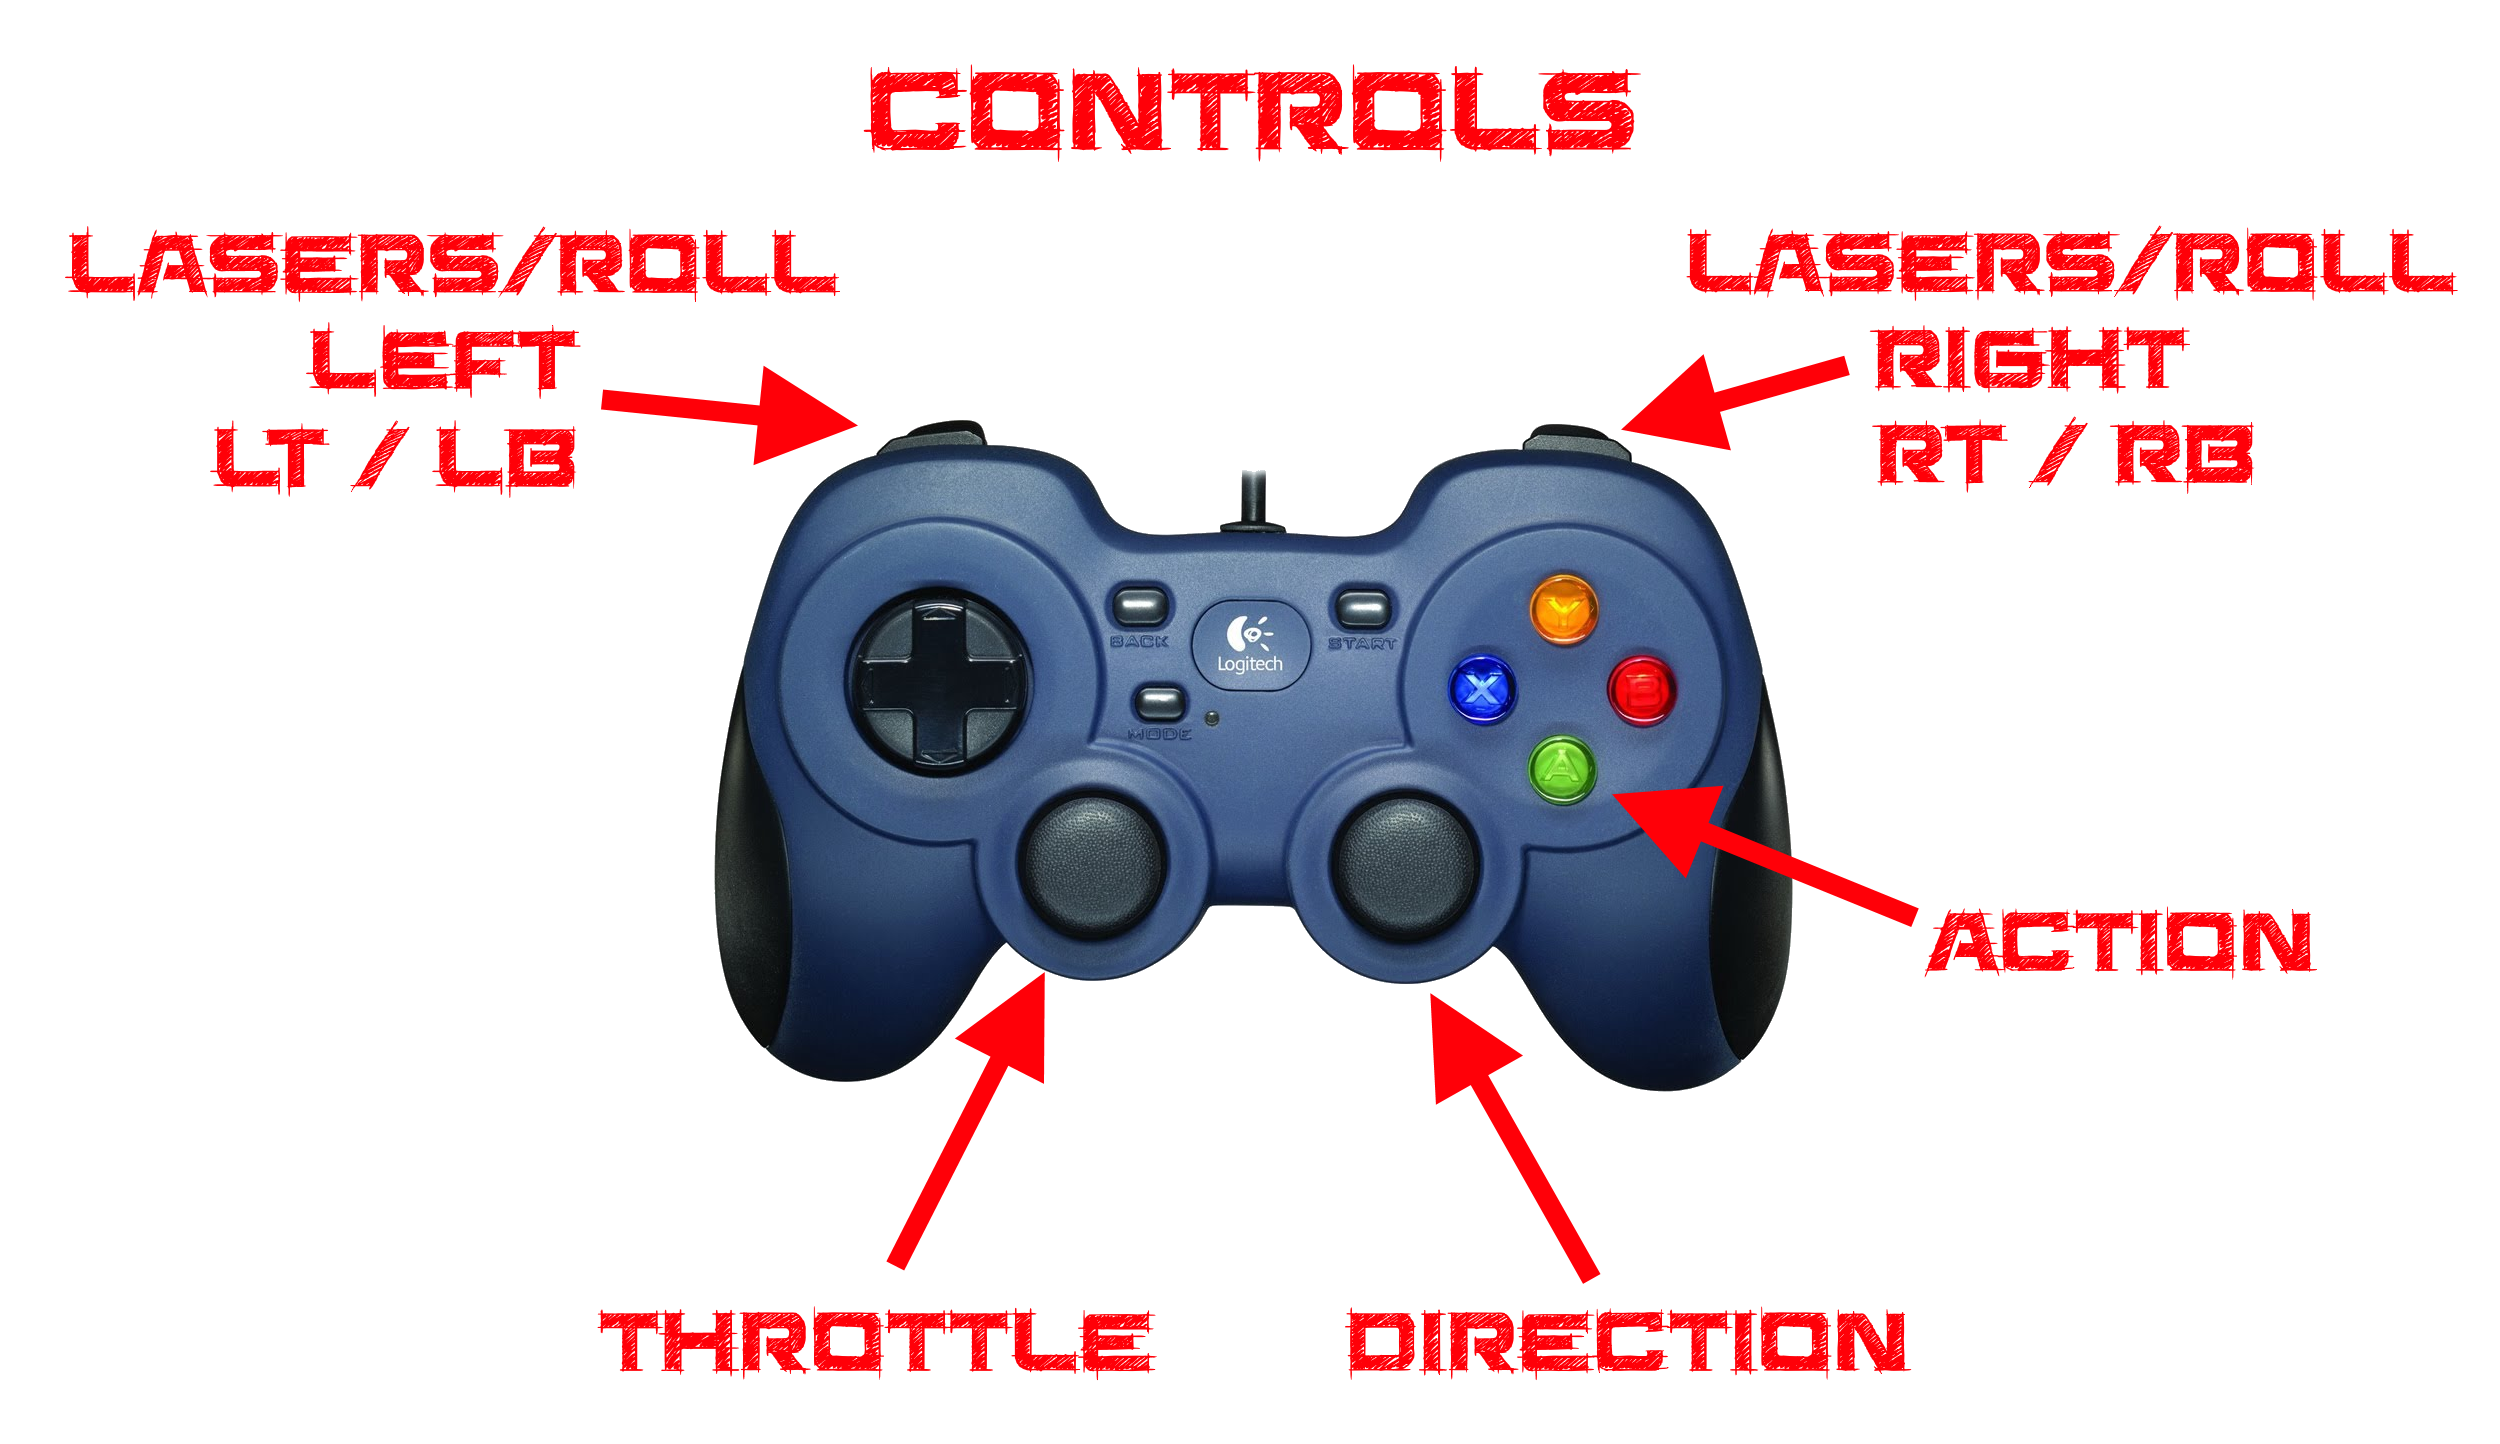
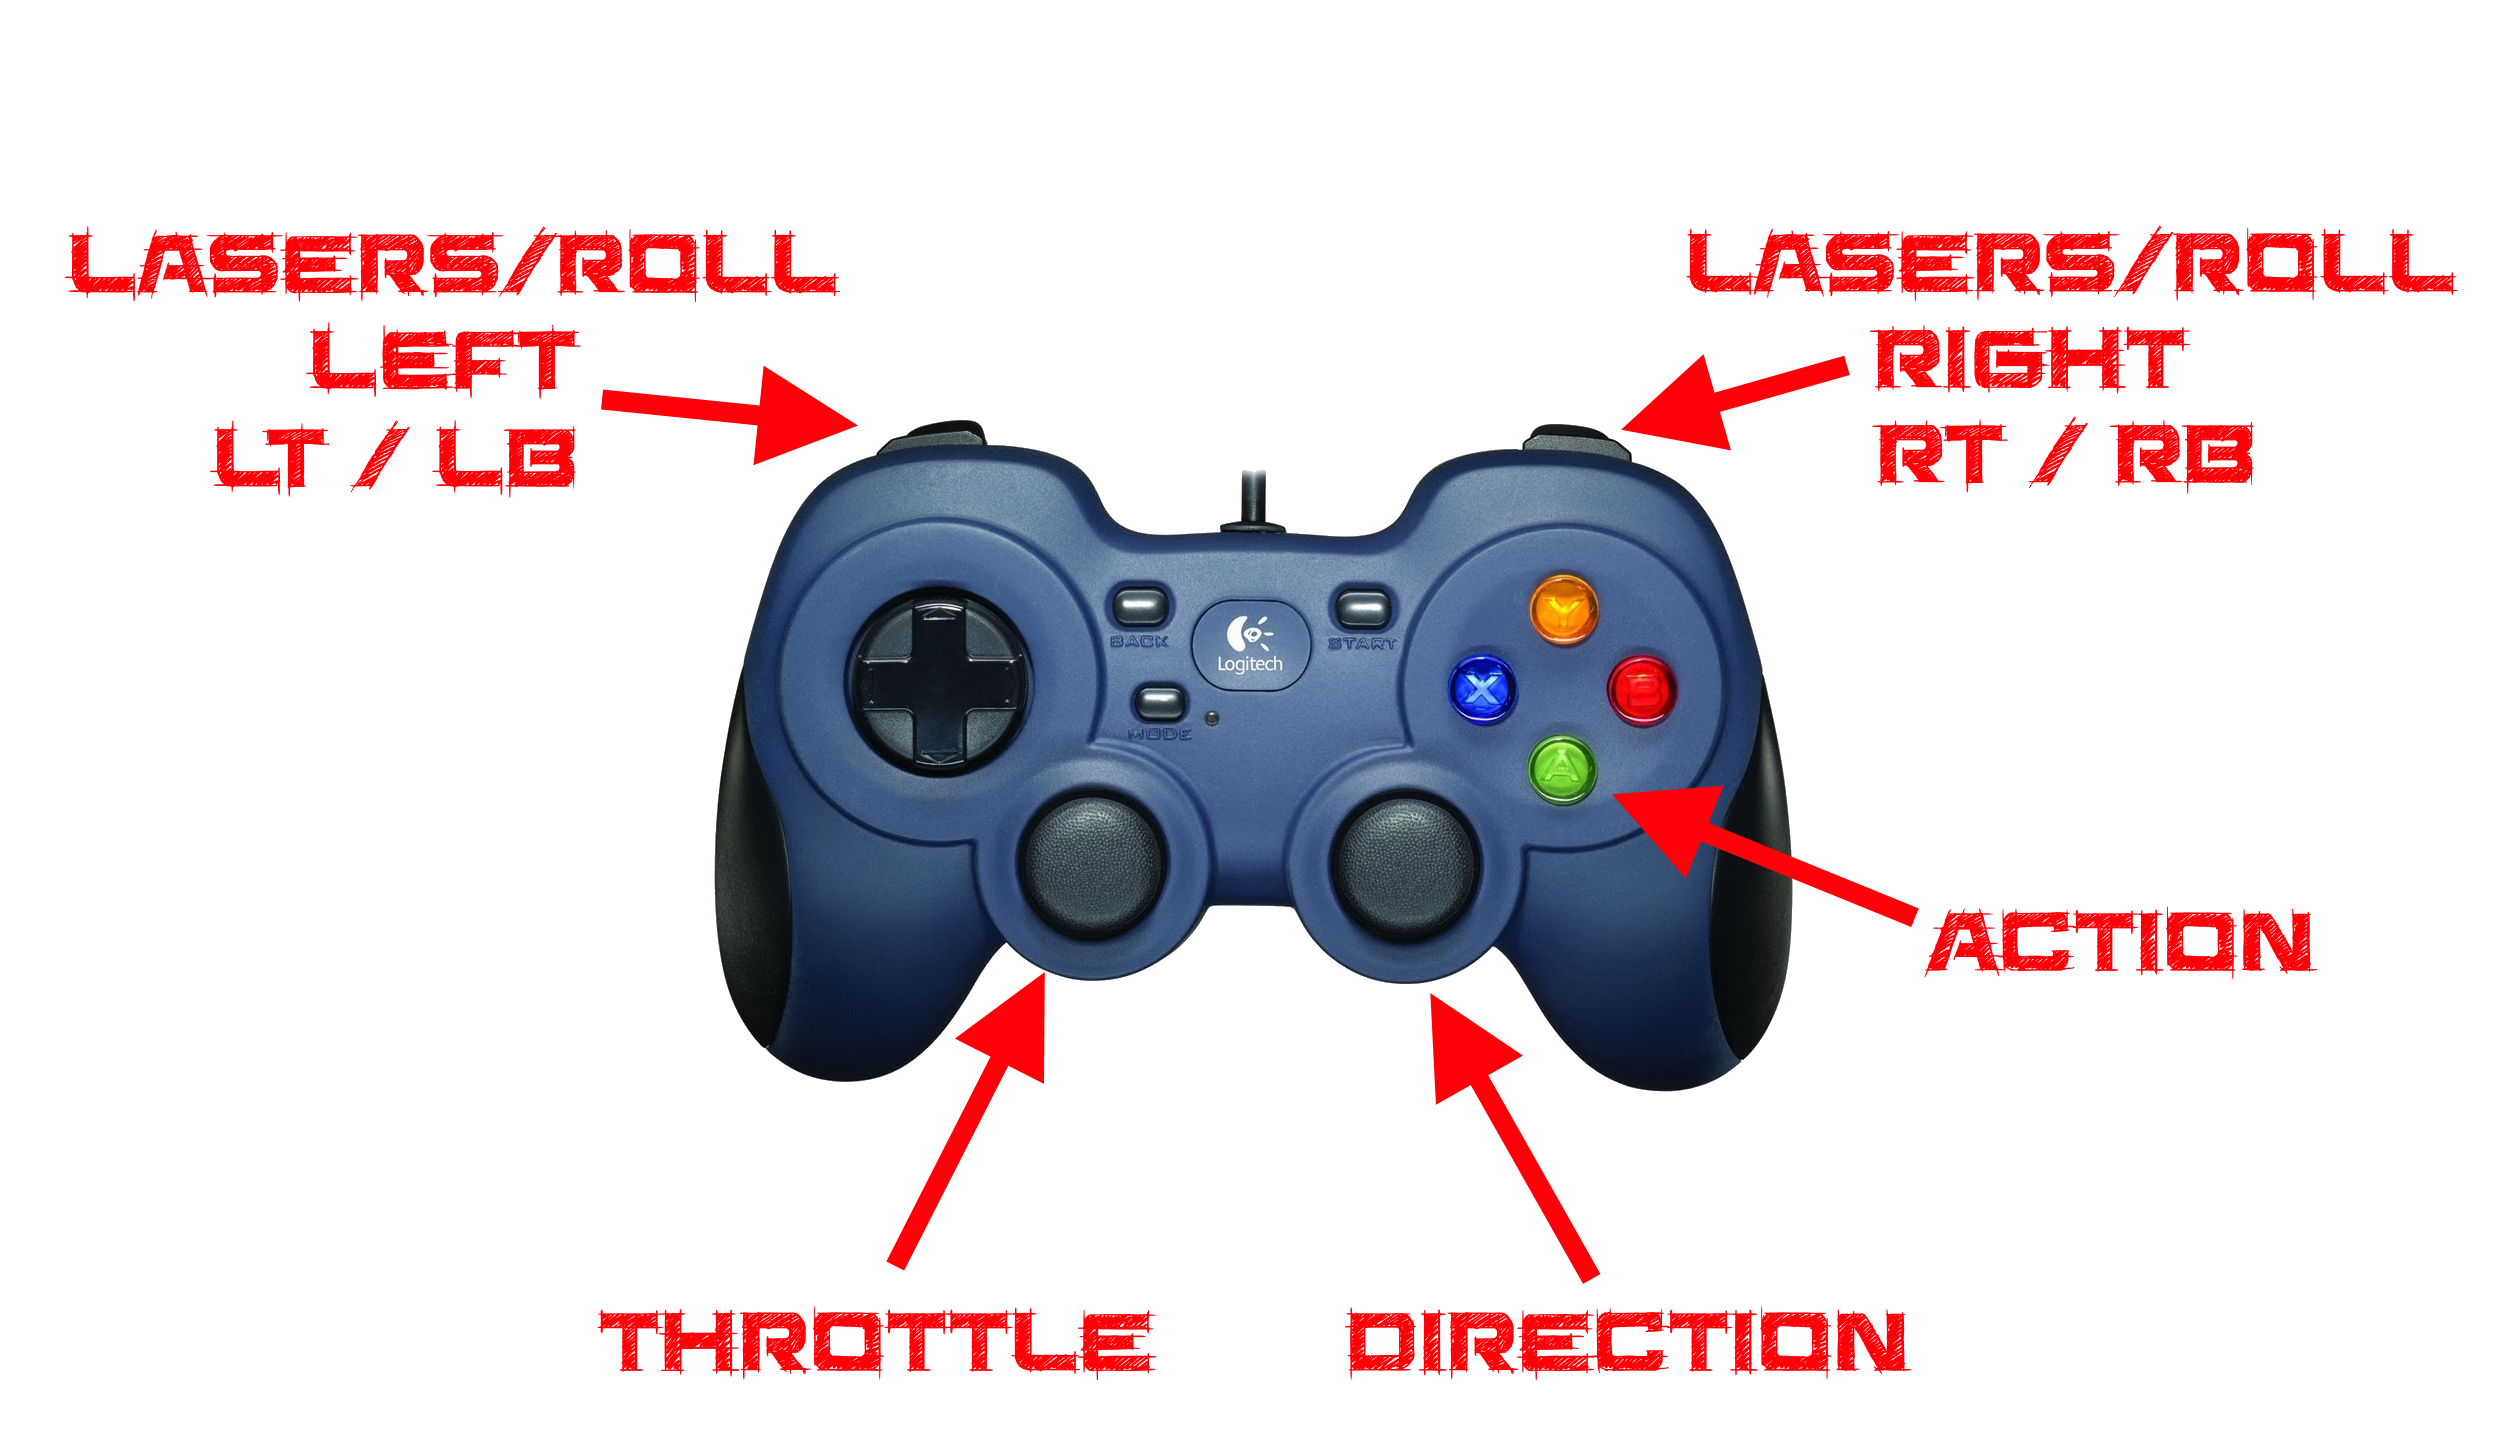
Added controls menu and GUIContainer has a title

Changed region(s): [[0.3432, 0.0312, 0.6552, 0.1247]]

diff --git a/PeopleOfEarth-Game/OptionsScene.h b/PeopleOfEarth-Game/OptionsScene.h
@@ -1,6 +1,7 @@
 #pragma once
 #include <MegaEngine.h>
 #include "OptionsMenuManager.h"
+#include "ControlsScene.h"
 
 class OptionsScene : public Scene
 {
@@ -23,14 +24,17 @@ public:
 			->addGUIComponent(new GUITextBox(PxVec4(0.37f, 0.7f, 0.11f, 0.09f), PxVec4(0.0f, 8.0f, 0.0f, 0.0f), "0", 3));
 
 		addToRoot((new GameObject("Options Menu"))
-			->addGUIComponent(new GUIContainer(PxVec4(0.3f, 0.3f, 0.4f, 0.6f), PxVec4(0.0f)))
+			->addGUIComponent(new GUIContainer(PxVec4(0.1f, 0.1f, 0.8f, 0.8f), PxVec4(0.0f), "Options"))
 			->addChild(effectsSlider)
 			->addChild(effectsBox)
 			->addChild(bgmSlider)
 			->addChild(bgmBox)
 			->addChild((new GameObject("Back Button"))
-			->addGUIComponent(new GUIButton(PxVec4(0.375f, 0.85f, 0.25f, 0.08f), PxVec4(0.0f), "Back",
-			std::bind(&OptionsScene::onBackClick, this, std::placeholders::_1), 14))));
+			->addGUIComponent(new GUIButton(PxVec4(0.2f, 0.85f, 0.25f, 0.08f), PxVec4(0.0f), "Back",
+			std::bind(&OptionsScene::onBackClick, this, std::placeholders::_1), 14)))
+			->addChild((new GameObject("Controls Button"))
+			->addGUIComponent(new GUIButton(PxVec4(0.5f, 0.85f, 0.25f, 0.08f), PxVec4(0.0f), "Controls",
+			std::bind(&OptionsScene::onControlsClick, this, std::placeholders::_1), 14))));
 
 		addToRoot((new GameObject("Options Menu Manager"))
 			->addGameComponent(new OptionsMenuManager(effectsSlider, effectsBox, bgmSlider, bgmBox)));
@@ -40,6 +44,12 @@ private:
 	bool onBackClick(const GameObject& gameobject)
 	{
 		getCoreEngine()->getSceneManager()->pop();
+		return true;
+	}
+
+	bool onControlsClick(const GameObject& gameobject)
+	{
+		getCoreEngine()->getSceneManager()->push(new ControlsScene, Modality::Popup);
 		return true;
 	}
 

diff --git a/MegaEngine/Components/GUIContainer.h b/MegaEngine/Components/GUIContainer.h
@@ -26,8 +26,8 @@ public:
 	/// </summary>
 	/// <param name="destRectPerc">The dest rect perc.</param>
 	/// <param name="destRectPix">The dest rect pix.</param>
-	GUIContainer(const PxVec4& destRectPerc, const PxVec4& destRectPix) :
-		GUIComponent(destRectPerc, destRectPix) { }
+	GUIContainer(const PxVec4& destRectPerc, const PxVec4& destRectPix, const std::string& title = "") :
+		GUIComponent(destRectPerc, destRectPix), m_title(title) { }
 	/// <summary>
 	/// Finalizes an instance of the <see cref="GUIContainer"/> class.
 	/// </summary>
@@ -42,8 +42,13 @@ public:
 		GUIComponent::addToEngine(engine);
 		CEGUI::FrameWindow* wi = static_cast<CEGUI::FrameWindow*>(createWidget(engine->getGUIEngine()->getSchemeStyle() + "/FrameWindow"));
 		wi->setTitleBarEnabled(true);
+		wi->getTitlebar()->setText(m_title);
 		wi->getTitlebar()->disable();
 		wi->setCloseButtonEnabled(false);
 		wi->setSizingEnabled(false);
 	}
+
+private:
+	std::string m_title;
+
 };

diff --git a/PeopleOfEarth-Game/ControlsScene.h b/PeopleOfEarth-Game/ControlsScene.h
@@ -1,0 +1,28 @@
+#pragma once
+#include <MegaEngine.h>
+
+class ControlsScene : public Scene
+{
+public:
+	ControlsScene() : Scene("Controls") { }
+	~ControlsScene() { }
+
+	virtual void init(const Viewport& window) override
+	{
+		addToRoot((new GameObject("Options Menu"))
+			->addGUIComponent(new GUIContainer(PxVec4(0.1f, 0.1f, 0.8f, 0.8f), PxVec4(0.0f), "Controls"))
+			->addChild((new GameObject("Controls Image"))
+			->addGUIComponent(new GUIImage(PxVec4(0.1f, 0.03f, 0.8f, 8.8f), PxVec4(0.0f), "Images/GameControls.png", 2500.0f / 1440.0f)))
+			->addChild((new GameObject("Back Button"))
+			->addGUIComponent(new GUIButton(PxVec4(0.375f, 0.9f, 0.25f, 0.08f), PxVec4(0.0f), "Back",
+			std::bind(&ControlsScene::onBackClick, this, std::placeholders::_1), 14))));
+	}
+
+private:
+	bool onBackClick(const GameObject& gameobject)
+	{
+		getCoreEngine()->getSceneManager()->pop();
+		return true;
+	}
+
+};
